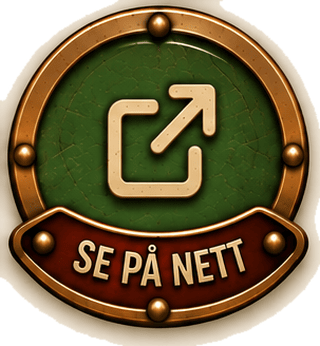
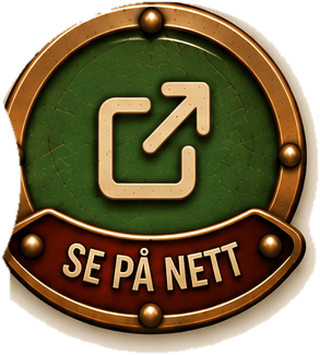
sdf

diff --git a/dashboard.html b/dashboard.html
@@ -953,7 +953,7 @@ select.hu-felt{
 <script src="/felles-filviser.js?v=2"></script>
 <!-- Neam: femmeren for navigering. Veggskjermen baerer ingen samtale -
      tilbakeTilStandard() legger femmeren ned naar skjermen hviler. -->
-<script src="/felles-neam.js?v=61"></script>
+<script src="/felles-neam.js?v=62"></script>
 <script>
 /* ============================================================
    NEAM – Kjøkken dash (pilot)

diff --git a/handleliste.html b/handleliste.html
@@ -1040,7 +1040,7 @@ input,select,textarea{font-size:16px}
 <script src="/felles-data.js?v=3"></script>
 <script src="/felles-dialog.js?v=1"></script>
 <script src="/felles-skjema.js?v=1"></script>
-<script src="/felles-neam.js?v=61"></script>
+<script src="/felles-neam.js?v=62"></script>
 <script>
 /* ============================================================
    Lagring: IndexedDB (delt database 'familiehub', store 'kv').

diff --git a/oppskrifter.html b/oppskrifter.html
@@ -2238,7 +2238,7 @@ input,select,textarea{font-size:16px}
 <script src="/felles-data.js?v=3"></script>
 <script src="/felles-dialog.js?v=1"></script>
 <script src="/felles-skjema.js?v=1"></script>
-<script src="/felles-neam.js?v=61"></script>
+<script src="/felles-neam.js?v=62"></script>
 <script>
 /* ============================================================
    Lagring: IndexedDB-basert erstatning for window.storage.

diff --git a/emma.html b/emma.html
@@ -1796,7 +1796,7 @@ select.hu-felt{
 <script src="/felles-filviser.js?v=2"></script>
 <!-- Neam: femmeren for navigering. Veggskjermen baerer ingen samtale -
      tilbakeTilStandard() legger femmeren ned naar skjermen hviler. -->
-<script src="/felles-neam.js?v=61"></script>
+<script src="/felles-neam.js?v=62"></script>
 <script>
 /* ============================================================
    NEAM – Emma dash

diff --git a/kalender.html b/kalender.html
@@ -1534,7 +1534,7 @@ input,select,textarea{font-size:16px}
 <script src="/felles-data.js?v=3"></script>
 <script src="/felles-dialog.js?v=1"></script>
 <script src="/felles-filviser.js?v=2"></script>
-<script src="/felles-neam.js?v=61"></script>
+<script src="/felles-neam.js?v=62"></script>
 <script>
 /* ============================================================
    Konfigurasjon — Azure app-registrering

diff --git a/felles-neam.js b/felles-neam.js
@@ -109,7 +109,7 @@ const NEAM_MERKE  = '/bilder/merke-neam.png?v=' + MERKE_V;
 
    REGELEN: bruk aldri et tall om igjen som kan ha vaert servert mens en
    fil manglet. Oek heller. */
-const KNAPP_V = 3;
+const KNAPP_V = 4;
 function knappMerke(navn){
   return '<img src="/bilder/knapper/knapp-' + navn + '.png?v=' + KNAPP_V + '" alt=""'
        + ' onerror="neamMerkeFeilet(this)">';

diff --git a/index.html b/index.html
@@ -1119,6 +1119,6 @@ window.neamUtfor = async function(navn, arg){
      overalt, og senere er dette veien til aa snakke med Neam herfra. -->
 <script src="/felles-dialog.js?v=1"></script>
 <script src="/felles-skjema.js?v=1"></script>
-<script src="/felles-neam.js?v=61"></script>
+<script src="/felles-neam.js?v=62"></script>
 </body>
 </html>
